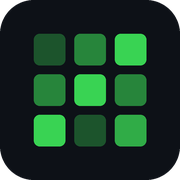
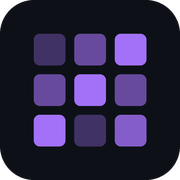
style: troca o verde por roxo (tema, calendário, timer e ícones)
Claude-Session: https://claude.ai/code/session_01P5j8kxrrMLUPeoGLt8yBqC

Changed region(s): [[0.1667, 0.1667, 0.8333, 0.8333]]

diff --git a/src/pages/Timer.tsx b/src/pages/Timer.tsx
@@ -130,7 +130,7 @@ export default function Timer() {
             cy="100"
             r={R}
             fill="none"
-            stroke={finished ? '#3fb950' : '#2f81f7'}
+            stroke={finished ? '#a371f7' : '#2f81f7'}
             strokeWidth="10"
             strokeLinecap="round"
             strokeDasharray={C}
@@ -144,7 +144,7 @@ export default function Timer() {
         </div>
       </div>
 
-      <p className={`mb-4 min-h-[24px] text-sm font-semibold ${notice ? 'text-attention' : 'text-success-fg'}`}>
+      <p className={`mb-4 min-h-[24px] text-sm font-semibold ${notice ? 'text-attention' : 'text-brand-fg'}`}>
         {finished ? 'Feito! Marcado no checklist.' : notice}
       </p>
 
@@ -178,7 +178,7 @@ export default function Timer() {
         Contar por lado (tempo × 2, com aviso para trocar)
       </label>
       {isLast && finished && (
-        <p className="mt-6 text-sm text-success-fg">Fim da rotina. Volte para “Hoje” para ver o progresso.</p>
+        <p className="mt-6 text-sm text-brand-fg">Fim da rotina. Volte para “Hoje” para ver o progresso.</p>
       )}
     </div>
   )

diff --git a/src/components/ui.tsx b/src/components/ui.tsx
@@ -23,12 +23,12 @@ export function Icon({ name, size = 18, className = '' }: { name: keyof typeof p
   )
 }
 
-export function ProgressBar({ value, max, tone = 'success' }: { value: number; max: number; tone?: 'success' | 'accent' }) {
+export function ProgressBar({ value, max, tone = 'brand' }: { value: number; max: number; tone?: 'brand' | 'accent' }) {
   const pct = max > 0 ? Math.min(100, Math.round((value / max) * 100)) : 0
   return (
     <div className="h-2 w-full overflow-hidden rounded-full bg-overlay" role="progressbar" aria-valuenow={value} aria-valuemax={max}>
       <div
-        className={`h-full rounded-full transition-all duration-300 ${tone === 'success' ? 'bg-success-fg' : 'bg-accent'}`}
+        className={`h-full rounded-full transition-all duration-300 ${tone === 'brand' ? 'bg-brand-fg' : 'bg-accent'}`}
         style={{ width: `${pct}%` }}
       />
     </div>

diff --git a/src/pages/Hoje.tsx b/src/pages/Hoje.tsx
@@ -74,7 +74,7 @@ export default function Hoje() {
         </div>
         <ProgressBar value={doneCount} max={list.length} />
         {list.length > 0 && doneCount === list.length && (
-          <p className="mt-3 text-sm text-success-fg">Rotina completa. Constância é isso — bom trabalho!</p>
+          <p className="mt-3 text-sm text-brand-fg">Rotina completa. Constância é isso — bom trabalho!</p>
         )}
       </div>
 
@@ -100,7 +100,7 @@ export default function Hoje() {
                 >
                   <span
                     className={`flex h-6 w-6 shrink-0 items-center justify-center rounded-md border ${
-                      on ? 'border-success bg-success text-white' : 'border-muted'
+                      on ? 'border-brand bg-brand text-white' : 'border-muted'
                     }`}
                   >
                     {on && (

diff --git a/src/index.css b/src/index.css
@@ -18,7 +18,7 @@
   .btn {
     @apply inline-flex min-h-[40px] items-center justify-center gap-2 rounded-md border border-line bg-overlay px-4 py-2 text-sm font-semibold text-fg transition hover:border-muted active:scale-[.98] disabled:opacity-50;
   }
-  .btn-primary { @apply border-white/10 bg-success text-white hover:border-white/20 hover:bg-[#2ea043]; }
+  .btn-primary { @apply border-white/10 bg-brand text-white hover:border-white/20 hover:bg-[#9e6cf0]; }
   .btn-danger { @apply text-danger hover:border-danger hover:bg-danger hover:text-white; }
   .btn-ghost { @apply border-transparent bg-transparent text-muted hover:text-fg; }
   .input {

diff --git a/src/pages/Treinos.tsx b/src/pages/Treinos.tsx
@@ -41,7 +41,7 @@ export default function Treinos() {
                       <div className="min-w-0 flex-1">
                         <div className="flex items-center gap-2 text-sm font-medium">
                           {SESSION_LABEL[s.type]}
-                          {s.is_minimum && <span className="chip border-success-fg/40 py-0 text-success-fg">dia mínimo</span>}
+                          {s.is_minimum && <span className="chip border-brand-fg/40 py-0 text-brand-fg">dia mínimo</span>}
                         </div>
                         <div className="truncate text-xs text-muted">
                           {[

diff --git a/tailwind.config.js b/tailwind.config.js
@@ -12,11 +12,11 @@ export default {
         fg: '#e6edf3',
         muted: '#8b949e',
         accent: '#2f81f7',
-        success: '#238636',
-        'success-fg': '#3fb950',
+        brand: '#8957e5',
+        'brand-fg': '#a371f7',
         danger: '#f85149',
         attention: '#d29922',
-        contrib: { 0: '#161b22', 1: '#0e4429', 2: '#006d32', 3: '#26a641', 4: '#39d353' },
+        contrib: { 0: '#161b22', 1: '#3b2a6b', 2: '#5a3ea0', 3: '#8957e5', 4: '#bc8cff' },
       },
       fontFamily: {
         sans: ['-apple-system', 'BlinkMacSystemFont', '"Segoe UI"', 'Noto Sans', 'Helvetica', 'Arial', 'sans-serif'],

diff --git a/src/pages/Login.tsx b/src/pages/Login.tsx
@@ -55,7 +55,7 @@ export default function Login() {
           {busy ? 'Aguarde…' : mode === 'in' ? 'Entrar' : 'Criar conta'}
         </button>
         <ErrorText error={error} />
-        {info && <p className="rounded-md border border-success-fg/40 bg-success/10 px-3 py-2 text-sm text-success-fg">{info}</p>}
+        {info && <p className="rounded-md border border-brand-fg/40 bg-brand/10 px-3 py-2 text-sm text-brand-fg">{info}</p>}
       </form>
       <p className="mt-4 rounded-md border border-line p-3 text-center text-sm text-muted">
         {mode === 'in' ? 'Primeira vez aqui?' : 'Já tem conta?'}{' '}
